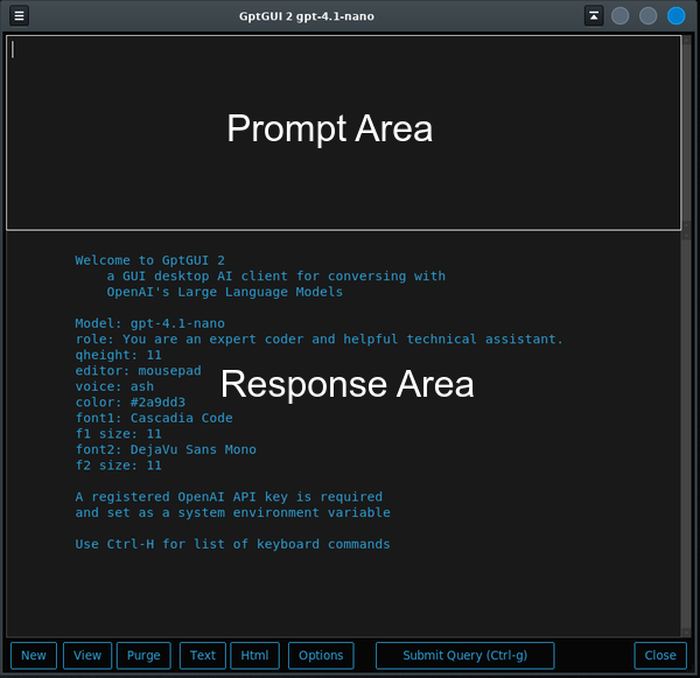
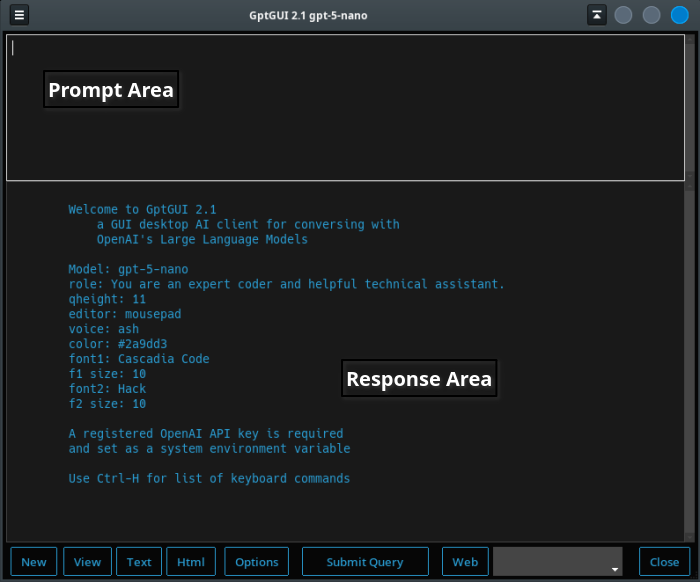
new_feat

diff --git a/gptgui.py b/gptgui.py
@@ -55,6 +55,10 @@ class Application(Frame):
         self.MyColor    = config['Main']['color']
         self.MySystem   = config['Main']['system']
         self.TOPFRAME   = int(config['Main']['top_frame'])
+        mods = config['Models']['list']
+        self.MyModels = mods.split(',')
+        self.MyModels = [s.strip() for s in self.MyModels]
+
         # if len(self.MyKey) < 16:
         #     self.MyKey = os.environ.get(self.MyKey)  # Using ENV var instead of actual key string.
 
@@ -117,12 +121,6 @@ class Application(Frame):
         self.view.grid(row=1, column=4, sticky='w',
                    pady=(5, 0))
 
-        self.purge = Button(btn_frame, text='Purge',
-                            command=self.on_purge,
-                            bootstyle=(OUTLINE))
-        self.purge.grid(row=1, column=5, sticky='w',
-                   pady=(5, 0), padx=5)
-
         self.open = Button(btn_frame, text='Text',
                             command=self.on_md_open,
                             bootstyle=(OUTLINE))
@@ -153,7 +151,11 @@ class Application(Frame):
                     text='Web', bootstyle="outline-toolbutton")
         self.web.grid(row=1, column=10, sticky='w', pady=(5, 0), padx=(10, 5))
 
-
+        self.vcmbo_model = StringVar()
+        self.cmbo_model = Combobox(btn_frame, textvariable=self.vcmbo_model, width=15, state="readonly")
+        self.cmbo_model['values'] = (self.MyModels)
+        self.cmbo_model.grid(row=1, column=11, sticky='w', pady=(5, 0), padx=(0, 5))
+        self.cmbo_model.bind('<<ComboboxSelected>>', self.onComboSelect)
 
        # END BUTTON FRAME
 
@@ -212,10 +214,6 @@ class Application(Frame):
                 wraplength=140)
         ToolTip(self.view,
                 text="View current log",
-                bootstyle=(INFO, INVERSE),
-                wraplength=140)
-        ToolTip(self.purge,
-                text="Delete current log",
                 bootstyle=(INFO, INVERSE),
                 wraplength=140)
         ToolTip(self.sub,
@@ -350,7 +348,7 @@ class Application(Frame):
         today = strftime("%a %d %b %Y", localtime())
         tm    = strftime("%H:%M", localtime())
         with open(self.MyPath, "a", encoding="utf-8") as fout:
-            fout.write("\n\n=== Chat on %s %s ===\n\n" % (today, tm))
+            fout.write("\n\n=== (%s) Chat on %s %s ===\n\n" % (self.MyModel, today, tm,))
             if self.vw.get() != 1:
                 fout.write(f"prompt:{prompt}, completion:{completion}, total:{total} \n\n")
                 for msg in self.conversation:
@@ -363,8 +361,9 @@ class Application(Frame):
 
             fout.write("="*40 + "\n\n")
 
-        # clear the input query box
-        self.query.delete("1.0", END)
+        # select the input query box
+        # self.query.delete("1.0", END)
+        self.query.tag_add("sel", "1.0", "end-1c")
         self.query.focus_set()
 
         # Speak response, if speach is on ...
@@ -409,15 +408,11 @@ class Application(Frame):
         return total_tokens, prompt_tokens, completion_tokens
 
 
-    def on_purge(self):
-        ''' User is purging the query-save file '''
-        if not os.path.isfile(self.MyPath):
-            messagebox.showwarning(self.MyPath, "Empty - No File to purge")
-            return
-        ret = messagebox.askokcancel("Purge", "Delete current log?")
-        if ret is True:
-            os.remove(self.MyPath)
-            messagebox.showinfo("Purge", "Log Deleted.")
+    def onComboSelect(self, e=None):
+        ''' Selecting temporary AI model '''
+        self.MyModel = self.vcmbo_model.get()
+        MyTitle = apptitle + self.MyModel
+        root.title(MyTitle)
 
 
     def on_new(self):
@@ -508,7 +503,7 @@ class Application(Frame):
         self.txt.configure(font=efont)
         style = Style()
         style = Style(theme=self.MyTheme)
-        MyTitle = "GptGUI (OpenAI) " + self.MyModel
+        MyTitle = apptitle + self.MyModel
         root.title(MyTitle)
         self.txt.delete("1.0", END)
         self.txt.insert("1.0", self.set_intro())

diff --git a/README.md b/README.md
@@ -2,15 +2,17 @@
 
 ### Python GUI to access Gpt Engine with OpenAI
 
--  Temporary Chat Mode
--  Supports a variety of OpenAI models
+-  Temporary local Chat Mode
+-  Supports a variety of OpenAI models and web-search
 -  Choose from many themes
 -  Convert responses to HTML or VOICE
 -  Maintains a log of reponses
 
 see https://platform.openai.com/docs for model information
 
-_make sure to pip install the latest **openai** module_  
+_requires the latest **openai** module_  
+
+>`pip install openai`
 
 ----
 
@@ -72,8 +74,6 @@ type **_prompt You are a .......... assistant_**
 into the Prompt Area and then click "New".
 - **View**
 > Displays the log file you set up in Options  
-- **Purge**
-> Clears the contens of the log file  
 - **Text**
 > Opens the current response or selection in your text editor   
 Set up the name of your text editor in the options.
@@ -84,6 +84,10 @@ Converting Markdown to HTML
 > launches the Options editor program
 - **Submit Query**
 > Submits prompt to OpenAI engine
+- **Web**
+> Toggle the Gpt "web-search" tool
+- **Select Temporary Model**
+> Select from models listed in gptgui.ini file
 - **Close**
 > Exit the program. _Ctrl-q_ exits the program quickly.
 
@@ -91,9 +95,9 @@ Converting Markdown to HTML
 
 ## Context menu
 
-There is a context (Right-Click) menu for convenience.
+There is a context menu (depress right mouse button) for convenience.
 The height of the query text area (top frame) can be lengthened
-or shortened with this menu.
+or shortened from this menu.
 
 ---
 
@@ -120,7 +124,7 @@ GptGUI operates with other software on your system:
 |__Ctrl-Shift-S__| Speak the Currrent Text|
 |__Ctrl-Shift_T__| Toggle Speech|
 |__Ctrl-G__| Submit Query (Button)|
-|__Ctrl-Enter__ | same as Ctrl-g|
+|__Ctrl-Enter__ | Submit Query (Button)|
 |__Ctrl-F__| Find text |
 |__Ctrl-N__| Find next text |
 
